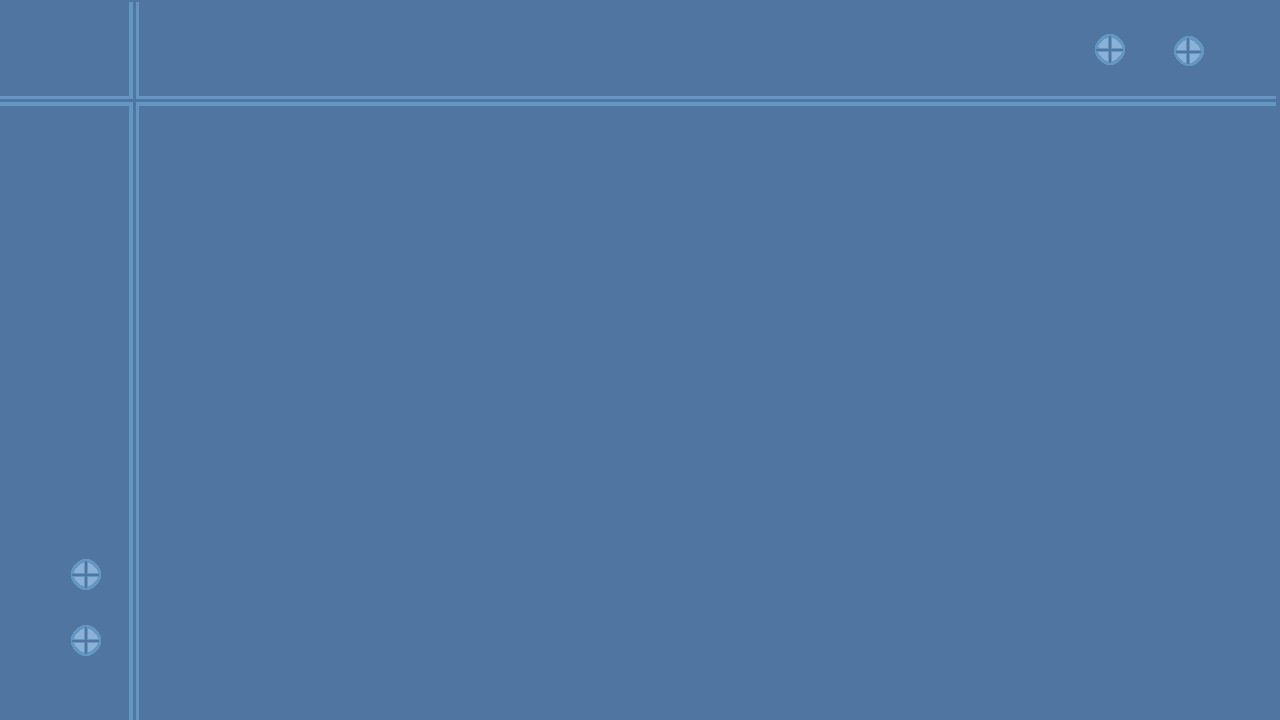
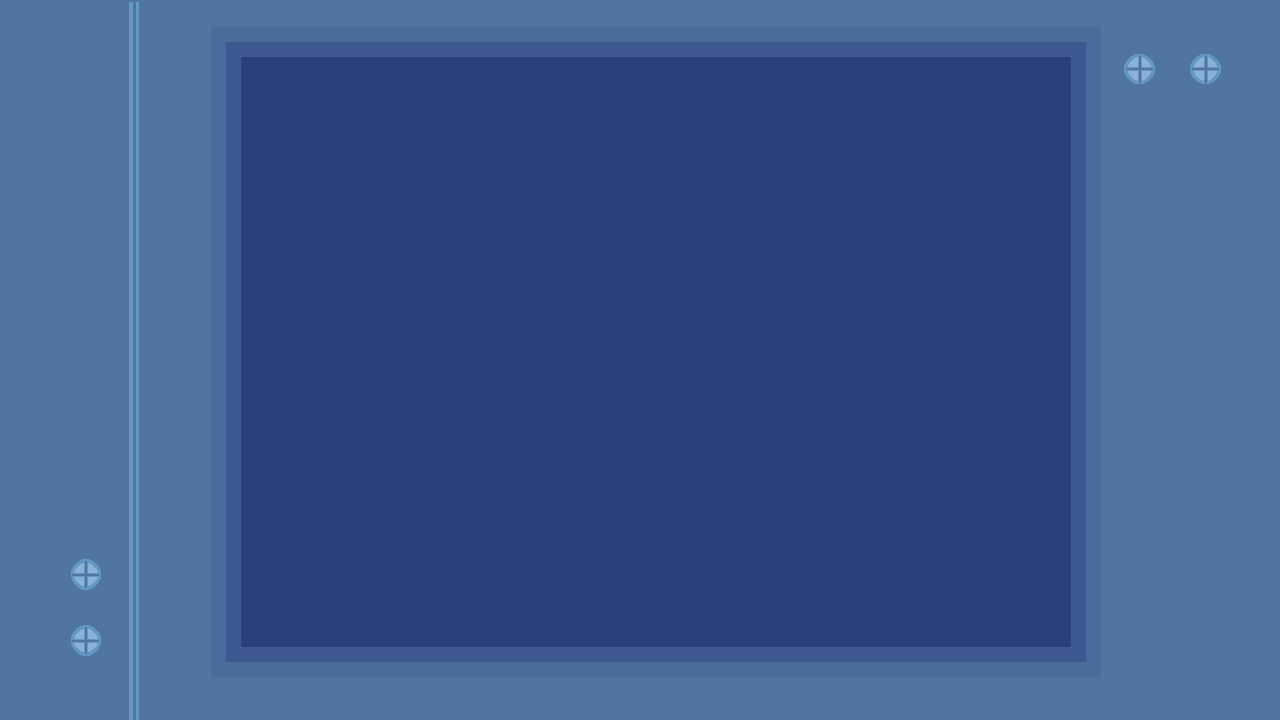
Solved graphic issues

diff --git a/PipeGame.py b/PipeGame.py
@@ -1,5 +1,11 @@
+# TO DO:
+# functia de verificare pipe uri 
+# celelalte poze
+# animatie 
+
 import pygame
 import sys
+import os
 from pygame.locals import *
 import random
 
@@ -11,6 +17,8 @@ WHITE = (255,255,255)
 RED = (255,0,0)
 GREEN = (0,255,0)
 BLACK = (0,0,0)
+BLUE = (81, 117, 161)
+ORANGE = (241, 168, 42)
 
 # window dimensions  
 WIDTH =  1280
@@ -69,9 +77,9 @@ class square:
     
     def draw(self):
         if self.isSelected():    
-            pygame.draw.rect(self.game.window, RED, [[self.x, self.y], [square_lat, square_lat]], 2)
+            pygame.draw.rect(self.game.window, ORANGE, [[self.x, self.y], [square_lat, square_lat]], 2)
         else:
-            pygame.draw.rect(self.game.window, WHITE, [[self.x, self.y], [square_lat, square_lat]], 2)
+            pygame.draw.rect(self.game.window, BLUE, [[self.x, self.y], [square_lat, square_lat]], 2)
 
         #PRESUPUN CA AICI AR TREBUI DESENATA SI POZA CU PIPE URI
         # if self.type == 0:
@@ -89,24 +97,53 @@ class square:
         
 
 class PipeTube(square):
-    def __init__(self, game, x, y, selected = 0):
+    def __init__(self, game, x, y, direction, selected = 0):
         super().__init__(game, x, y, selected)
+        self.direction = direction
 
     # NU APAR POZELE
     # TREBUIE INSERATA IMAGINEA ALTCUMVA
 
     def draw(self):
-        line = pygame.image.load(r'C:\Users\Radu Ana Maria\Desktop\PipeGameW-main\line_pipe_1.png')
-        self.window.blit(line,(x_start + square_lat, y_start))
+        tube = pygame.image.load(os.path.join('line_pipe_1.png'))
+        tube = self.rotatePipe(tube) 
+        self.game.window.blit(tube, (self.x, self.y))
 
+    def rotatePipe(self, tube):
+        if self.direction == 0:
+            tube = pygame.transform.rotate(tube, 90)
+        return tube
 
 class PipeCorner(square):
-    def __init__(self, game, x, y, selected = 0):
+    def __init__(self, game, x, y, direction, selected = 0):
         super().__init__(game, x, y, selected)
+        self.direction = direction
 
     def draw(self):
-        corner = pygame.image.load(r'C:\Users\Radu Ana Maria\Desktop\PipeGameW-main\corner_pipe_1.png')
-        self.window.blit(corner,(x_start,y_start))
+        corner = pygame.image.load(os.path.join('corner_pipe_1.png'))
+        corner = self.rotatePipe(corner)
+        self.game.window.blit(corner, (self.x, self.y))
+    
+    def rotatePipe(self, corner):
+        # if self.direction == 3:
+        #     corner = pygame.transform.rotate(corner, 90)
+        # elif self.direction == 4:
+        #     corner = pygame.transform.rotate(corner, 180)
+        # elif self.direction == 5:
+        #     corner = pygame.transform.rotate(corner, 270)
+        
+
+        # if self.direction == 2 or self.direction == 3 or self.direction == 4:
+        #         self.direction += 1
+        # elif self.direction == 5:
+        #         self.direction = 2
+        d = 2       
+        while d != self.direction: # 2 3 4 5 
+            corner = pygame.transform.rotate(corner, -90)
+            d += 1
+            if d > 5:
+                d = 2
+        return corner
 
 
 class Game:
@@ -121,7 +158,10 @@ class Game:
             aux = []
             x = x_start
             for j in range(10):
-                sq = square(self, x, y, pipe_type_initial[i][j])
+                if (i, j) in tube_list:
+                    sq = square(self, x, y, "tube")
+                else:
+                    sq = square(self, x, y, "corner")
                 aux.append(sq)
                 x += square_lat
             y += square_lat
@@ -134,16 +174,26 @@ class Game:
         pygame.display.update()
 
         # drawing the wallpaper
-        wallpaper = pygame.image.load(r'C:\Users\Radu Ana Maria\Desktop\PipeGameW-main\Fundal.png')
+        wallpaper = pygame.image.load(os.path.join('Fundal.png'))
         self.window.blit(wallpaper,(0,0))
 
         # drawing the outline of the grid
         pygame.draw.rect(self.window, WHITE, [[x_start, y_start], [grid_width, grid_height]], 2)
 
         # drawing the squares for the grid
+        i = 0
         for line in grid:
-            for sq in line:
+            j = 0
+            for sq in line:                
+                if sq.type == "tube":
+                    pipe = PipeTube(self, sq.x, sq.y, pipe_type_initial[i][j])
+                else:
+                    pipe = PipeCorner(self, sq.x, sq.y, pipe_type_initial[i][j])
+                pipe.draw()
                 sq.draw()
+                j += 1
+            i += 1
+        
         
         
     def run(self):
@@ -167,6 +217,8 @@ class Game:
                     self.moveRight(grid, i, j)
                 if event.key == K_LEFT:
                     self.moveLeft(grid, i, j)
+                if event.key == K_SPACE:
+                    self.rotate(grid, i, j)
     def moveUp(self, grid, i, j):
         if i == 0:
             grid[6][j].move(grid[i][j])
@@ -190,6 +242,23 @@ class Game:
             grid[i][0].move(grid[i][j])
         else:
             grid[i][j + 1].move(grid[i][j])
+
+    def rotate(self, grid, i, j):
+        if grid[i][j].type == "tube":
+            if pipe_type_initial[i][j] == 0:
+                pipe_type_initial[i][j] = 1
+            else:
+                pipe_type_initial[i][j] = 0
+            pipe = PipeTube(self, grid[i][j].x, grid[i][j].y, pipe_type_initial[i][j])
+        else:
+            if pipe_type_initial[i][j] == 2 or pipe_type_initial[i][j] == 3 or pipe_type_initial[i][j] == 4:
+                pipe_type_initial[i][j] += 1
+            elif pipe_type_initial[i][j] == 5:
+                pipe_type_initial[i][j] = 2
+            pipe = PipeCorner(self, grid[i][j].x, grid[i][j].y, pipe_type_initial[i][j])  
+        pipe.draw()
+
+        
 
     def selected(self, grid):
         for i in range (7):
